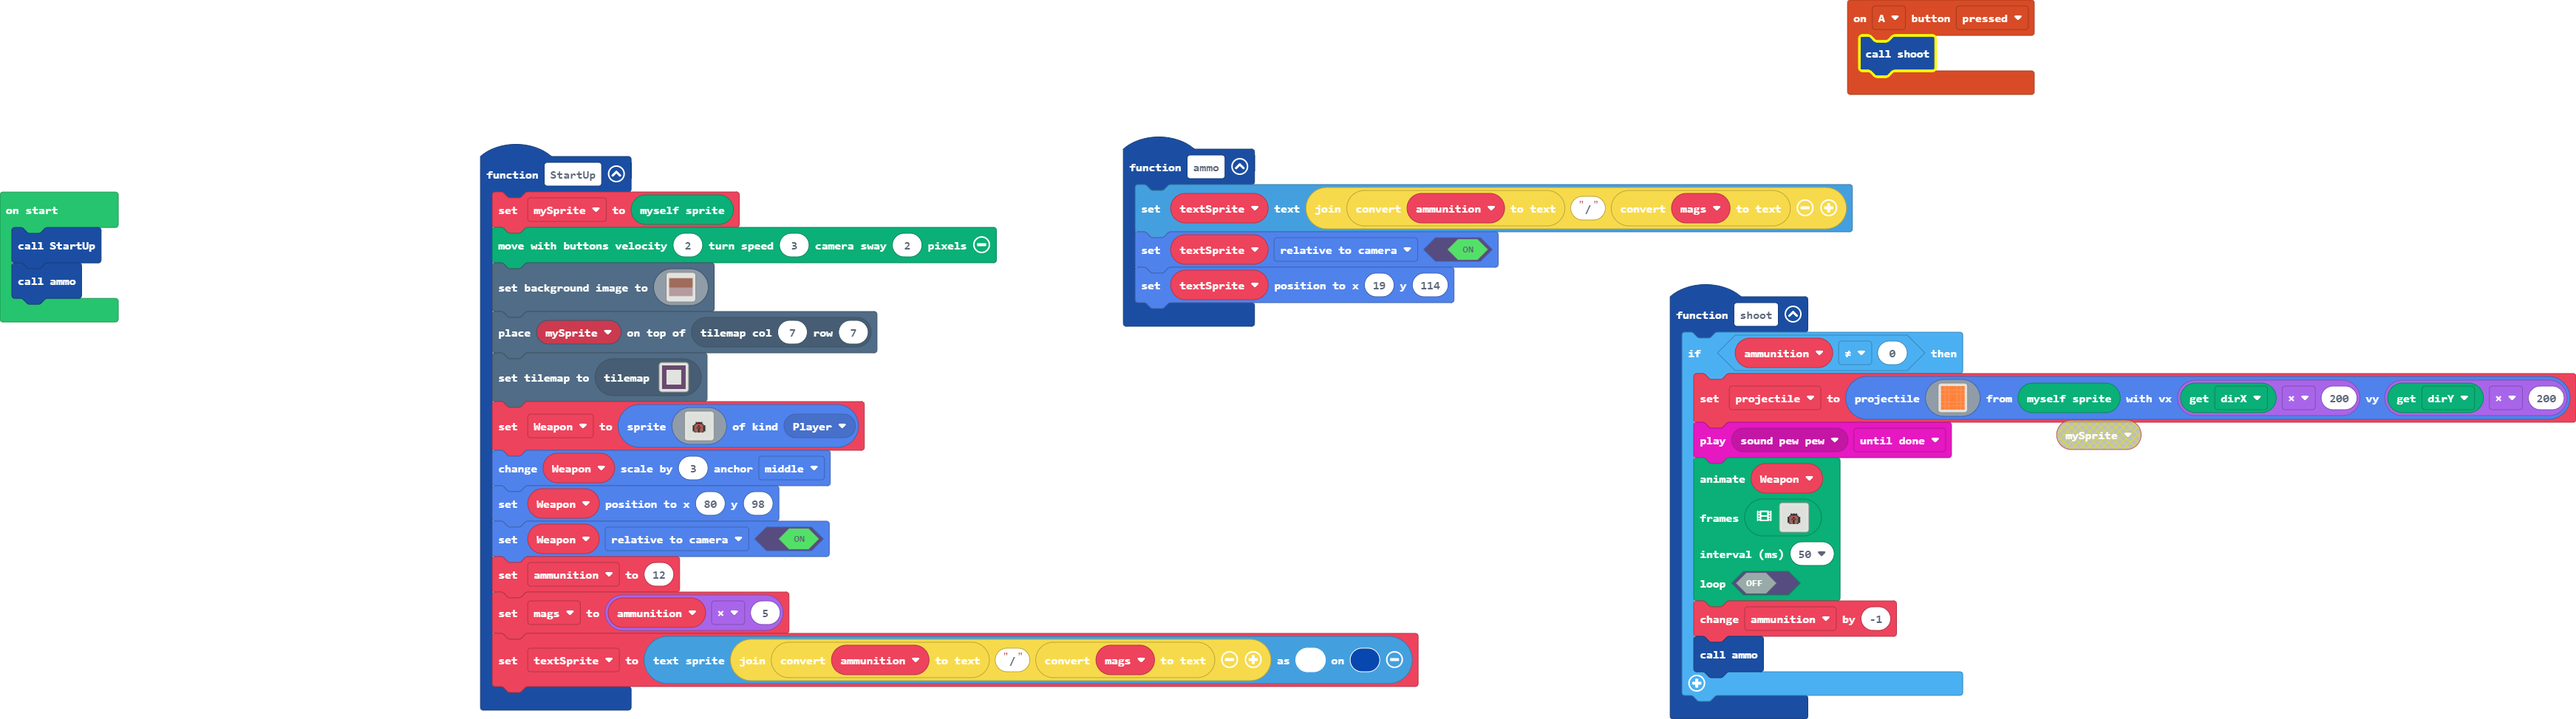
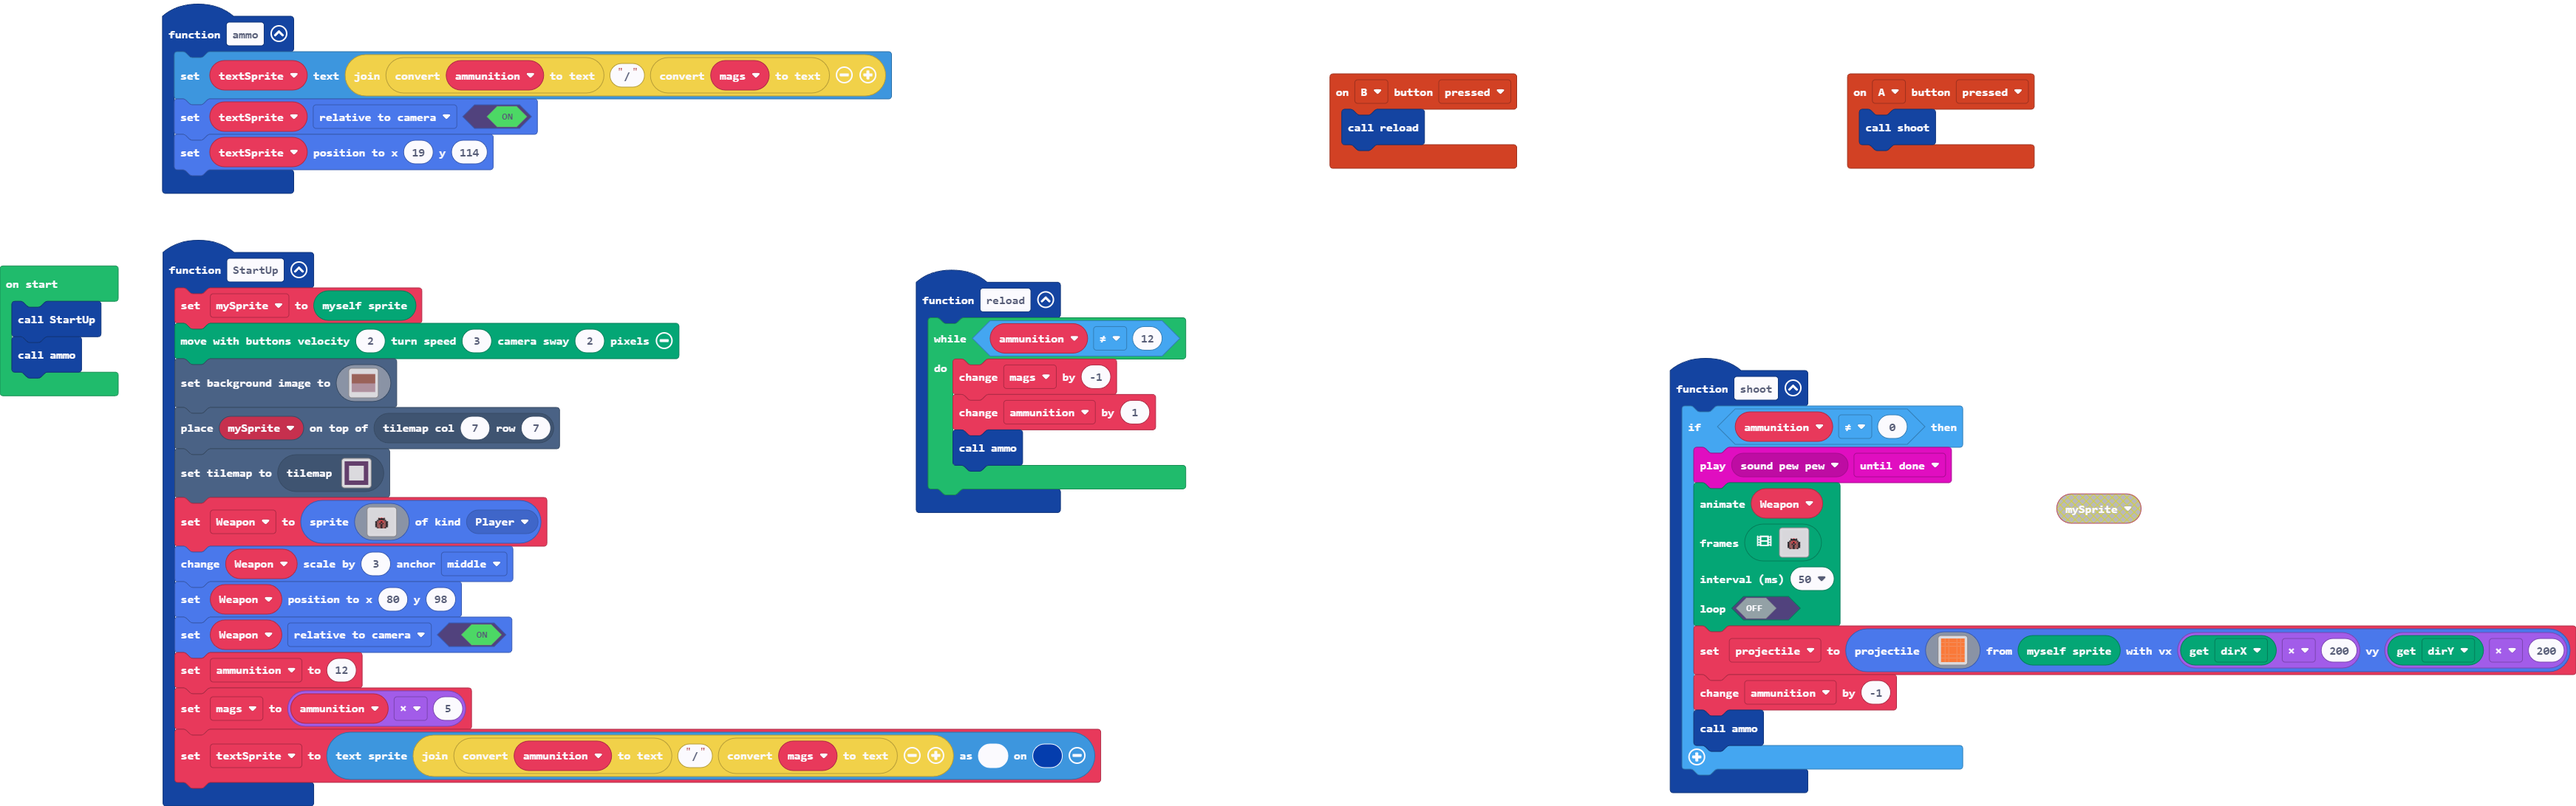
reload function and fix bullet placement

diff --git a/main.ts b/main.ts
@@ -1,16 +1,18 @@
+function reload () {
+    while (ammunition != 12) {
+        mags += -1
+        ammunition += 1
+        ammo()
+    }
+}
+controller.B.onEvent(ControllerButtonEvent.Pressed, function () {
+    reload()
+})
 controller.A.onEvent(ControllerButtonEvent.Pressed, function () {
     shoot()
 })
 function shoot () {
     if (ammunition != 0) {
-        projectile = sprites.createProjectileFromSprite(img`
-            4 4 4 4 4 4 
-            4 4 4 4 4 4 
-            4 4 4 4 4 4 
-            4 4 4 4 4 4 
-            4 4 4 4 4 4 
-            4 4 4 4 4 4 
-            `, Render.getRenderSpriteVariable(), Render.getAttribute(Render.attribute.dirX) * 200, Render.getAttribute(Render.attribute.dirY) * 200)
         music.play(music.melodyPlayable(music.pewPew), music.PlaybackMode.UntilDone)
         animation.runImageAnimation(
         Weapon,
@@ -223,6 +225,14 @@ function shoot () {
         50,
         false
         )
+        projectile = sprites.createProjectileFromSprite(img`
+            4 4 4 4 4 4 
+            4 4 4 4 4 4 
+            4 4 4 4 4 4 
+            4 4 4 4 4 4 
+            4 4 4 4 4 4 
+            4 4 4 4 4 4 
+            `, Render.getRenderSpriteVariable(), Render.getAttribute(Render.attribute.dirX) * 200, Render.getAttribute(Render.attribute.dirY) * 200)
         ammunition += -1
         ammo()
     }
@@ -409,10 +419,10 @@ function StartUp () {
     textSprite = textsprite.create("" + convertToText(ammunition) + "/" + convertToText(mags), 8, 1)
 }
 let mySprite: Sprite = null
-let mags = 0
 let textSprite: TextSprite = null
-let Weapon: Sprite = null
 let projectile: Sprite = null
+let Weapon: Sprite = null
+let mags = 0
 let ammunition = 0
 StartUp()
 ammo()
